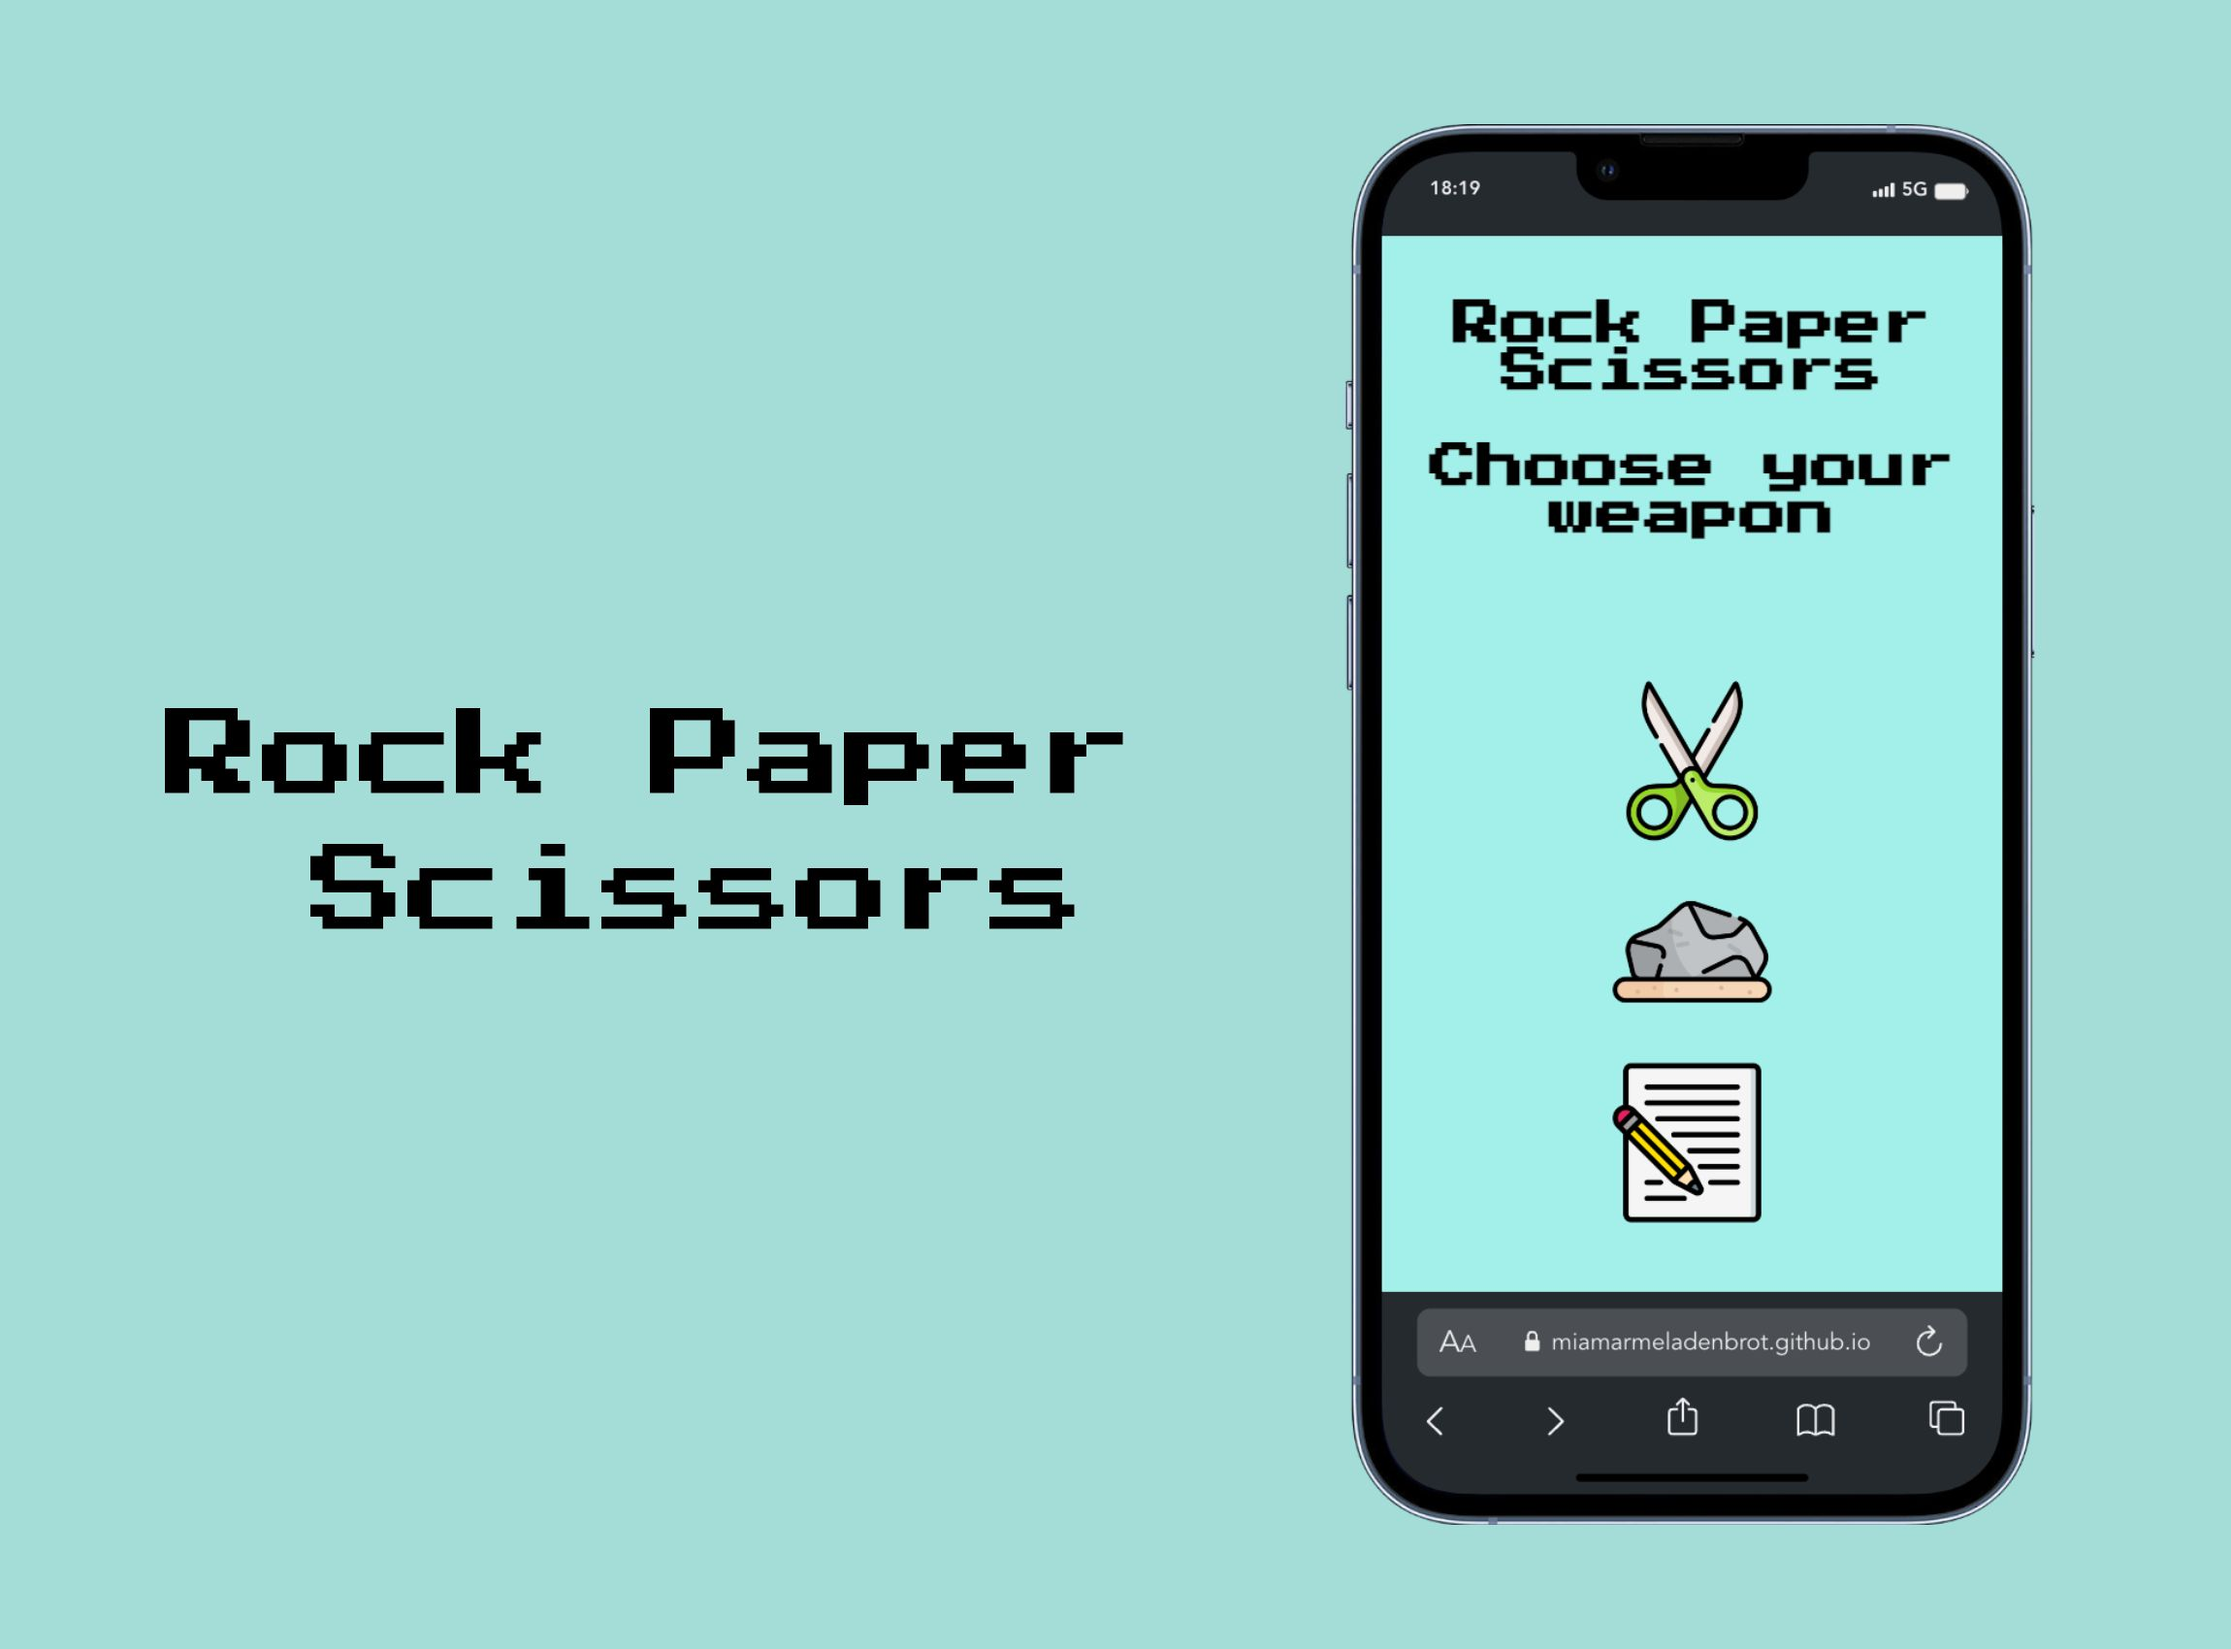
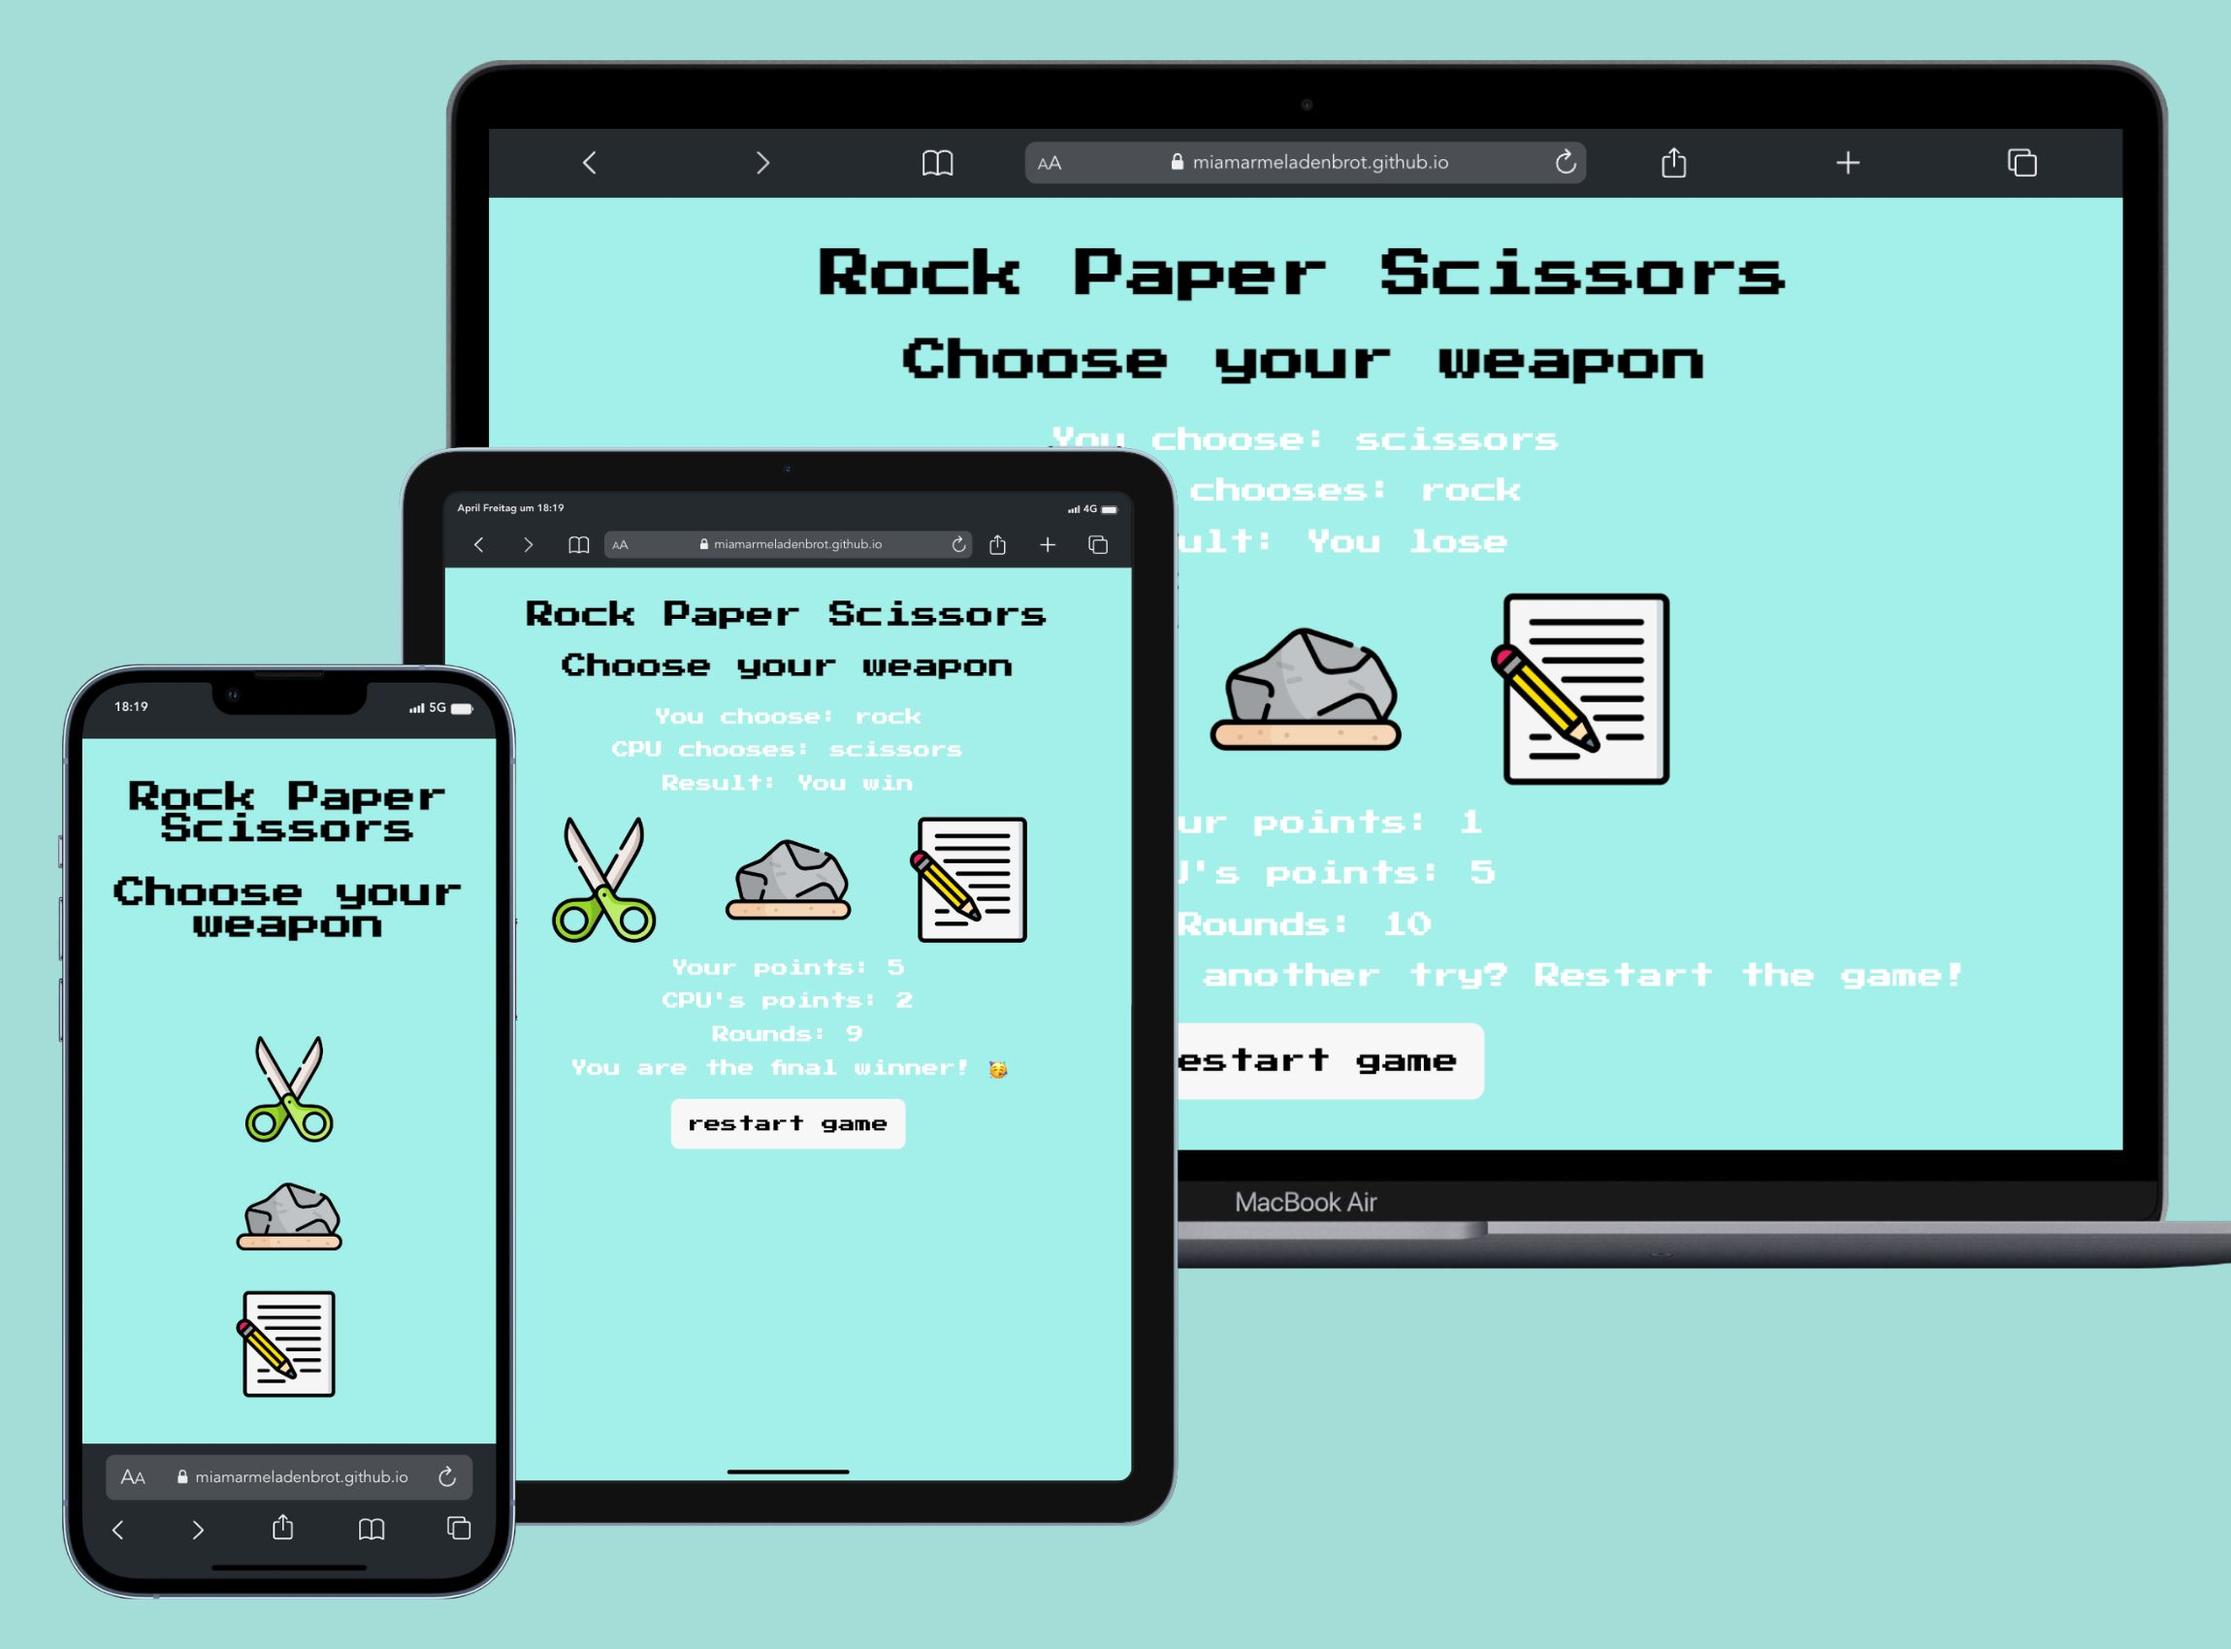
change responsive designs main img

diff --git a/src/assets/data/projects.js b/src/assets/data/projects.js
@@ -1,5 +1,6 @@
 // # IDs final vergeben und checken
 // # final befüllen - welche Felder werden wirklich benötigt?
+// # noch ein oder zwei responsive designs ergänzen
 // Vorlage:
 // {
 // id: 11,
@@ -410,7 +411,11 @@ const projects = [
       "Show different image depending on advice",
     ],
 
-    detailImages: ["/img/Projects/wanderwetter/wanderwetter-search.png"],
+    detailImages: [
+      "/img/Projects/wanderwetter/wanderwetter-search.png",
+      "/img/Projects/wanderwetter/wanderwetter-m-t-1.jpg",
+      "/img/Projects/wanderwetter/wanderwetter-m-t-2.jpg",
+    ],
   },
   // 5 Kunterbunt
   {
@@ -616,7 +621,7 @@ const projects = [
       },
     ],
     features: [],
-    image: "/img/Projects/managing/managing.jpg",
+    image: "/img/Projects/managing/managing-1.png",
     site: "https://miamarmeladenbrot.github.io/supercode-project-managing-business/",
     repo: "https://github.com/MiaMarmeladenbrot/supercode-project-managing-business?tab=readme-ov-file",
     collaborators: [],

diff --git a/README.md b/README.md
@@ -2,7 +2,7 @@
 
 # ToDos
 
-- responsive design auf index-img des jeweiligen projekts darstellen, indem dort macbook, tablet, handy pngs zusammen gezeigt werden?
+- responsive design auf index-img
 - noch mehr Projekte als responsive Projekte umsetzen?
 - techstack als img-url von github?
 - e-shop neu deployen
